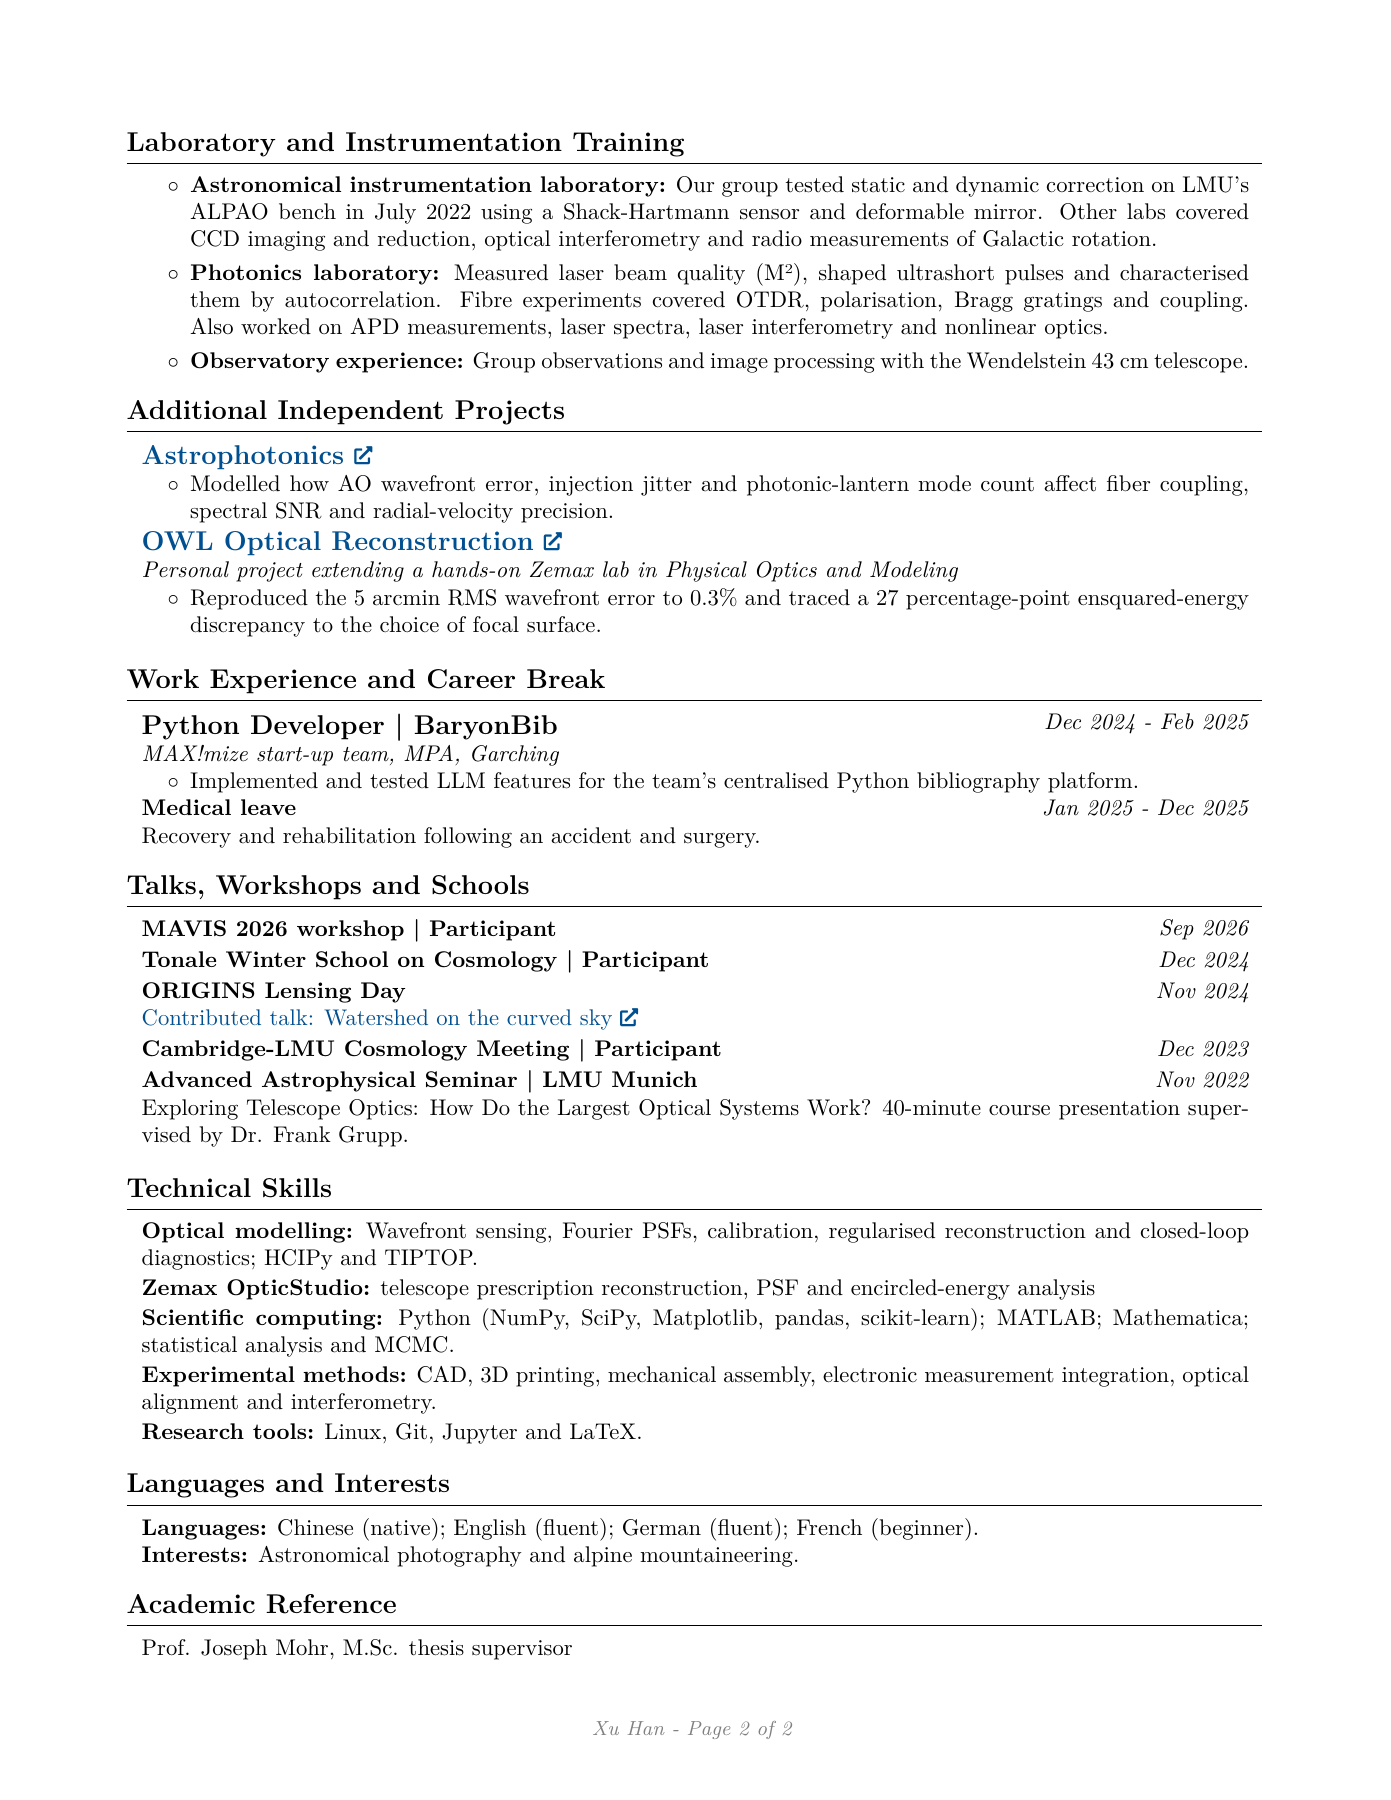
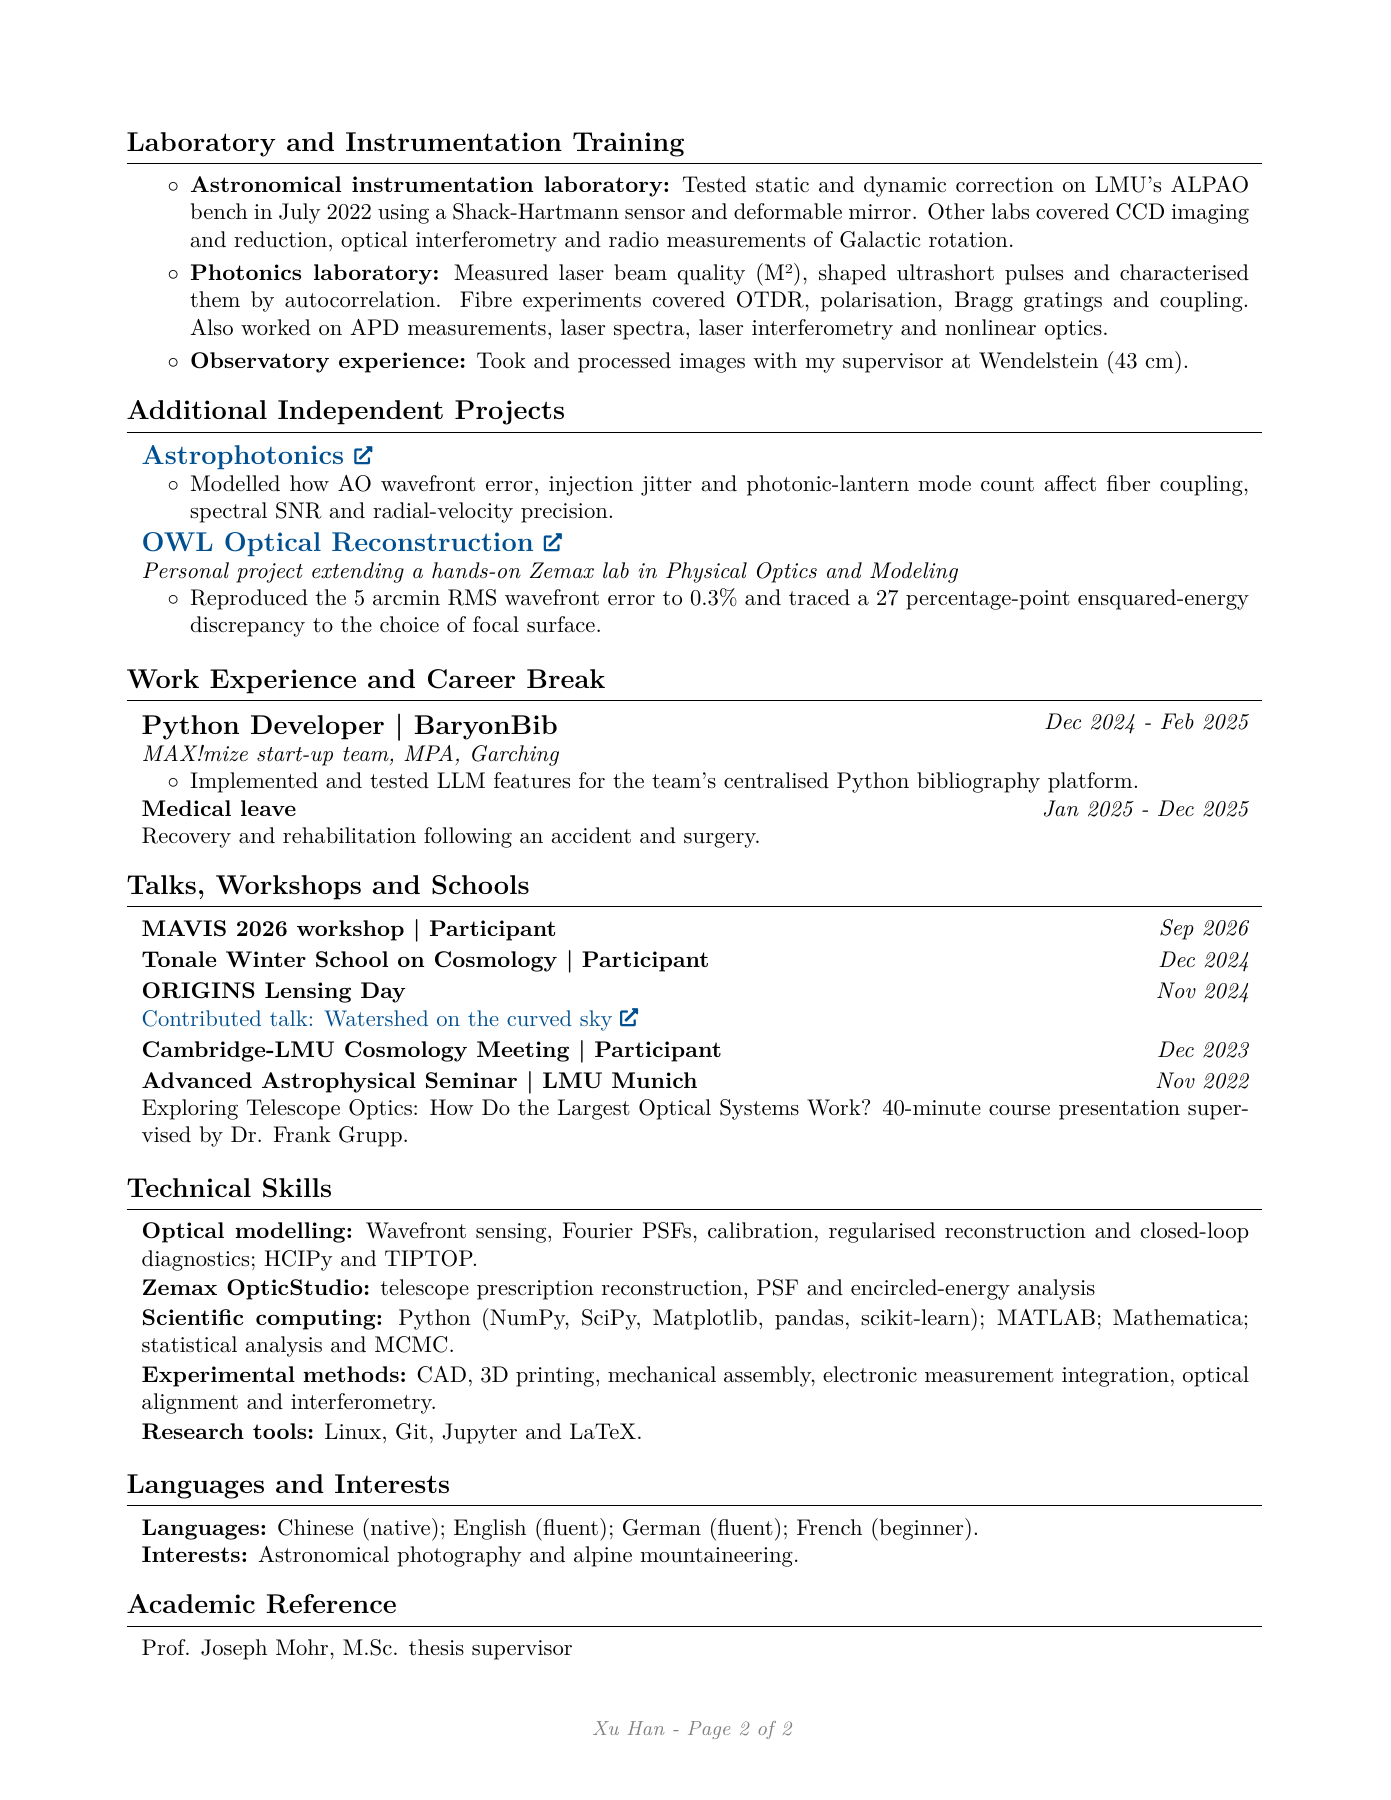
Order CV degrees and research projects by date and clarify observing experience

diff --git a/cv/Xu_Han_CV.tex b/cv/Xu_Han_CV.tex
@@ -180,13 +180,14 @@ Photonics M.Sc. student and LMU astrophysics graduate focused on astronomical in
 \textbf{Selected coursework:} Physical Optics and Modelling (\textbf{Zemax optical design}); Micro and Fiber Optics; Optical Measurement Technology; Semiconductor Optics and Components.
 \end{onecolentry}
 \vspace{0.08 cm}
-\begin{twocolentry}{\textit{Sep 2013 - Jul 2017}}
-\textbf{B.Eng. Electrical Engineering and Automation}
-
-Hubei University of Technology
+\begin{twocolentry}{\textit{Apr 2022 - Aug 2024}}
+\textbf{M.Sc. Astrophysics} | LMU Munich
 \end{twocolentry}
 \begin{onecolentry}
-Electronics, control systems and embedded systems.
+Grade: 1.55 (German scale). \textbf{Selected coursework:} Essentials of Advanced Astrophysics; Cosmology and Structure Formation; Statistical Methods; Instrumental Laboratory Courses.
+\end{onecolentry}
+\begin{onecolentry}
+\hrefWithoutArrow{https://drive.google.com/file/d/1NQSRpt\_x9CCdSJrJznqkt5ncOElWJPhy/view?usp=drivesdk}{Degree certificate}
 \end{onecolentry}
 \vspace{0.08 cm}
 \begin{twocolentry}{\textit{Oct 2018 - Mar 2022}}
@@ -199,14 +200,13 @@ Grade: 1.8 (German scale).
 \hrefWithoutArrow{https://drive.google.com/file/d/1m3RH47N80jSDokQ6q0vlu0j9GsGqVNYK/view?usp=drivesdk}{Degree certificate}
 \end{onecolentry}
 \vspace{0.08 cm}
-\begin{twocolentry}{\textit{Apr 2022 - Aug 2024}}
-\textbf{M.Sc. Astrophysics} | LMU Munich
+\begin{twocolentry}{\textit{Sep 2013 - Jul 2017}}
+\textbf{B.Eng. Electrical Engineering and Automation}
+
+Hubei University of Technology
 \end{twocolentry}
 \begin{onecolentry}
-Grade: 1.55 (German scale). \textbf{Selected coursework:} Essentials of Advanced Astrophysics; Cosmology and Structure Formation; Statistical Methods; Instrumental Laboratory Courses.
-\end{onecolentry}
-\begin{onecolentry}
-\hrefWithoutArrow{https://drive.google.com/file/d/1NQSRpt\_x9CCdSJrJznqkt5ncOElWJPhy/view?usp=drivesdk}{Degree certificate}
+Electronics, control systems and embedded systems.
 \end{onecolentry}
 \vspace{0.08 cm}
 \section{Selected Research and Engineering Projects}
@@ -228,21 +228,6 @@ Grade: 1.55 (German scale). \textbf{Selected coursework:} Essentials of Advanced
 \end{highlights}
 \end{onecolentry}
 \vspace{0.08 cm}
-\begin{twocolentry}{\textit{Mar 2021 - Aug 2021}}
-{\large\textbf{\href{https://xhvoid.github.io/Xu-Han.github.io/projects/\#experimental-apparatus}{Experimental Collisional Charging Apparatus}}}
-
-\textit{Bachelor's thesis | University of Duisburg-Essen}
-\end{twocolentry}
-\begin{onecolentry}
-Supervisors: Prof. Gerhard Wurm and Dr. Felix Jungmann.
-\end{onecolentry}
-\begin{onecolentry}
-\begin{highlights}
-\item Designed the mechanical apparatus in CAD, fabricated components by 3D printing and assembled the setup; integrated and debugged electronic charge-measurement modules.
-\item Conducted measurements and analysed grain-size dependence of collisional charging, testing a dust-collision growth hypothesis relevant to early planet formation.
-\end{highlights}
-\end{onecolentry}
-\vspace{0.08 cm}
 \begin{twocolentry}{\textit{Mar 2023 - Aug 2024}}
 {\large\textbf{\href{https://xhvoid.github.io/Xu-Han.github.io/files/watershed-voids-thesis.pdf}{Weak Lensing Void Finder}}}
 
@@ -258,13 +243,28 @@ Supervisors: Prof. Joseph Mohr and Dr. Chris Davies.
 \end{highlights}
 \end{onecolentry}
 \vspace{0.08 cm}
+\begin{twocolentry}{\textit{Mar 2021 - Aug 2021}}
+{\large\textbf{\href{https://xhvoid.github.io/Xu-Han.github.io/projects/\#experimental-apparatus}{Experimental Collisional Charging Apparatus}}}
+
+\textit{Bachelor's thesis | University of Duisburg-Essen}
+\end{twocolentry}
+\begin{onecolentry}
+Supervisors: Prof. Gerhard Wurm and Dr. Felix Jungmann.
+\end{onecolentry}
+\begin{onecolentry}
+\begin{highlights}
+\item Designed the mechanical apparatus in CAD, fabricated components by 3D printing and assembled the setup; integrated and debugged electronic charge-measurement modules.
+\item Conducted measurements and analysed grain-size dependence of collisional charging, testing a dust-collision growth hypothesis relevant to early planet formation.
+\end{highlights}
+\end{onecolentry}
+\vspace{0.08 cm}
 \clearpage
 \section{Laboratory and Instrumentation Training}
 \begin{onecolentry}
 \begin{highlights}
-\item \textbf{Astronomical instrumentation laboratory:} Our group tested static and dynamic correction on LMU's ALPAO bench in July 2022 using a Shack-Hartmann sensor and deformable mirror. Other labs covered CCD imaging and reduction, optical interferometry and radio measurements of Galactic rotation.
+\item \textbf{Astronomical instrumentation laboratory:} Tested static and dynamic correction on LMU's ALPAO bench in July 2022 using a Shack-Hartmann sensor and deformable mirror. Other labs covered CCD imaging and reduction, optical interferometry and radio measurements of Galactic rotation.
 \item \textbf{Photonics laboratory:} Measured laser beam quality (M²), shaped ultrashort pulses and characterised them by autocorrelation. Fibre experiments covered OTDR, polarisation, Bragg gratings and coupling. Also worked on APD measurements, laser spectra, laser interferometry and nonlinear optics.
-\item \textbf{Observatory experience:} Group observations and image processing with the Wendelstein 43 cm telescope.
+\item \textbf{Observatory experience:} Took and processed images with my supervisor at Wendelstein (43 cm).
 \end{highlights}
 \end{onecolentry}
 \section{Additional Independent Projects}

diff --git a/cv/Xu_Han_CV.md b/cv/Xu_Han_CV.md
@@ -12,11 +12,13 @@ Mar 2026 - Present
 
 Selected coursework: Physical Optics and Modelling (Zemax optical design); Micro and Fiber Optics; Optical Measurement Technology; Semiconductor Optics and Components.
 
-### B.Eng. Electrical Engineering and Automation | Hubei University of Technology
+### M.Sc. Astrophysics | LMU Munich
 
-Sep 2013 - Jul 2017
+Apr 2022 - Aug 2024
 
-Electronics, control systems and embedded systems.
+Grade: 1.55 (German scale). Selected coursework: Essentials of Advanced Astrophysics; Cosmology and Structure Formation; Statistical Methods; Instrumental Laboratory Courses.
+
+[Degree certificate](https://drive.google.com/file/d/1NQSRpt_x9CCdSJrJznqkt5ncOElWJPhy/view?usp=drivesdk)
 
 ### B.Sc. Physics | University of Duisburg-Essen
 
@@ -26,13 +28,11 @@ Grade: 1.8 (German scale).
 
 [Degree certificate](https://drive.google.com/file/d/1m3RH47N80jSDokQ6q0vlu0j9GsGqVNYK/view?usp=drivesdk)
 
-### M.Sc. Astrophysics | LMU Munich
+### B.Eng. Electrical Engineering and Automation | Hubei University of Technology
 
-Apr 2022 - Aug 2024
+Sep 2013 - Jul 2017
 
-Grade: 1.55 (German scale). Selected coursework: Essentials of Advanced Astrophysics; Cosmology and Structure Formation; Statistical Methods; Instrumental Laboratory Courses.
-
-[Degree certificate](https://drive.google.com/file/d/1NQSRpt_x9CCdSJrJznqkt5ncOElWJPhy/view?usp=drivesdk)
+Electronics, control systems and embedded systems.
 
 ## Selected Research and Engineering Projects
 
@@ -47,15 +47,6 @@ Independent project (ongoing development) | Mar 2026 - Present
 - Diagnosed a reconstruction failure associated with measurement dropout in a 2.2 m NGS model; stronger TSVD regularisation kept reconstruction usable throughout the matched two-second run.
 - Cross-checked selected optical components against HCIPy and analytic references; documented reproducible experiments, model limitations and an interactive explorer of recorded results.
 
-### [Experimental Collisional Charging Apparatus](https://xhvoid.github.io/Xu-Han.github.io/projects/#experimental-apparatus)
-
-Bachelor's thesis | University of Duisburg-Essen | Mar 2021 - Aug 2021
-
-Supervisors: Prof. Gerhard Wurm and Dr. Felix Jungmann.
-
-- Designed the mechanical apparatus in CAD, fabricated components by 3D printing and assembled the setup; integrated and debugged electronic charge-measurement modules.
-- Conducted measurements and analysed grain-size dependence of collisional charging, testing a dust-collision growth hypothesis relevant to early planet formation.
-
 ### [Weak Lensing Void Finder](https://xhvoid.github.io/Xu-Han.github.io/files/watershed-voids-thesis.pdf)
 
 Master's thesis | LMU Munich | Mar 2023 - Aug 2024
@@ -65,11 +56,20 @@ Supervisors: Prof. Joseph Mohr and Dr. Chris Davies.
 - Developed and parameter-tested a watershed finder for cosmic voids in 2D full-sky weak-lensing convergence maps.
 - Applied the analysis to DES Y3 weak-lensing maps; characterised void abundance, effective radii, ellipticities and convergence profiles.
 
+### [Experimental Collisional Charging Apparatus](https://xhvoid.github.io/Xu-Han.github.io/projects/#experimental-apparatus)
+
+Bachelor's thesis | University of Duisburg-Essen | Mar 2021 - Aug 2021
+
+Supervisors: Prof. Gerhard Wurm and Dr. Felix Jungmann.
+
+- Designed the mechanical apparatus in CAD, fabricated components by 3D printing and assembled the setup; integrated and debugged electronic charge-measurement modules.
+- Conducted measurements and analysed grain-size dependence of collisional charging, testing a dust-collision growth hypothesis relevant to early planet formation.
+
 ## Laboratory and Instrumentation Training
 
-- **Astronomical instrumentation laboratory:** Our group tested static and dynamic correction on LMU's ALPAO bench in July 2022 using a Shack-Hartmann sensor and deformable mirror. Other labs covered CCD imaging and reduction, optical interferometry and radio measurements of Galactic rotation.
+- **Astronomical instrumentation laboratory:** Tested static and dynamic correction on LMU's ALPAO bench in July 2022 using a Shack-Hartmann sensor and deformable mirror. Other labs covered CCD imaging and reduction, optical interferometry and radio measurements of Galactic rotation.
 - **Photonics laboratory:** Measured laser beam quality (M²), shaped ultrashort pulses and characterised them by autocorrelation. Fibre experiments covered OTDR, polarisation, Bragg gratings and coupling. Also worked on APD measurements, laser spectra, laser interferometry and nonlinear optics.
-- **Observatory experience:** Group observations and image processing with the Wendelstein 43 cm telescope.
+- **Observatory experience:** Took and processed images with my supervisor at Wendelstein (43 cm).
 
 ## Additional Independent Projects
 

diff --git a/_pages/cv.md b/_pages/cv.md
@@ -7,8 +7,8 @@ author_profile: true
 
 My CV brings together **adaptive optics, experimental apparatus development and weak-lensing research**, supported by photonics studies, laboratory training and further optical simulation projects.
 
-<a class="btn btn--primary" href="{{ '/files/Xu_Han_CV.pdf?v=f42fe2ea8d8b' | relative_url }}" target="_blank" rel="noopener">View CV (PDF)</a>
-<a class="btn" href="{{ '/files/Xu_Han_CV.pdf?v=f42fe2ea8d8b' | relative_url }}" download="Xu_Han_CV.pdf">Download CV</a>
+<a class="btn btn--primary" href="{{ '/files/Xu_Han_CV.pdf?v=dc3860dd5562' | relative_url }}" target="_blank" rel="noopener">View CV (PDF)</a>
+<a class="btn" href="{{ '/files/Xu_Han_CV.pdf?v=dc3860dd5562' | relative_url }}" download="Xu_Han_CV.pdf">Download CV</a>
 
 *Updated 8 November 2026.*
 
@@ -19,8 +19,8 @@ My CV brings together **adaptive optics, experimental apparatus development and 
 **B.Sc. Physics** — [Degree certificate](https://drive.google.com/file/d/1m3RH47N80jSDokQ6q0vlu0j9GsGqVNYK/view?usp=drivesdk)
 
 <div class="cv-preview" aria-label="Two-page CV preview">
-  <a href="{{ '/files/Xu_Han_CV.pdf?v=f42fe2ea8d8b' | relative_url }}" target="_blank" rel="noopener" aria-label="Open the complete CV as a PDF">
-    <img src="{{ '/images/cv/xu-han-cv-page-1.png?v=952ef4578fbb' | relative_url }}" alt="Xu Han's CV, page 1: education and the three core research and engineering projects" width="1391" height="1800" decoding="async" style="width:100%;height:auto;border:1px solid #dde2e8;margin:0 0 1.5rem;">
-    <img src="{{ '/images/cv/xu-han-cv-page-2.png?v=f01009a1d3c0' | relative_url }}" alt="Xu Han's CV, page 2: laboratory training, additional projects, work, talks and technical skills" width="1391" height="1800" loading="lazy" decoding="async" style="width:100%;height:auto;border:1px solid #dde2e8;margin:0 0 1.5rem;">
+  <a href="{{ '/files/Xu_Han_CV.pdf?v=dc3860dd5562' | relative_url }}" target="_blank" rel="noopener" aria-label="Open the complete CV as a PDF">
+    <img src="{{ '/images/cv/xu-han-cv-page-1.png?v=84c0e408ee94' | relative_url }}" alt="Xu Han's CV, page 1: education and the three core research and engineering projects" width="1391" height="1800" decoding="async" style="width:100%;height:auto;border:1px solid #dde2e8;margin:0 0 1.5rem;">
+    <img src="{{ '/images/cv/xu-han-cv-page-2.png?v=2fb453f9cf28' | relative_url }}" alt="Xu Han's CV, page 2: laboratory training, additional projects, work, talks and technical skills" width="1391" height="1800" loading="lazy" decoding="async" style="width:100%;height:auto;border:1px solid #dde2e8;margin:0 0 1.5rem;">
   </a>
 </div>

diff --git a/_pages/projects.md b/_pages/projects.md
@@ -20,7 +20,7 @@ My projects range from telescope optics and adaptive optics simulations to an ex
 ### Laboratory Adaptive Optics — LMU Munich, 2022
 {: #lmu-ao-lab}
 
-In July 2022, our group worked with an ALPAO bench in the Instrumental Astrophysics Laboratory at LMU Munich. We applied individual Zernike modes with the deformable mirror and measured the wavefront with a Shack–Hartmann sensor. We studied static correction, then introduced an artificial turbulence screen to investigate dynamic correction. We followed the wavefront error and Strehl ratio and examined the point-spread function (PSF) on the science camera.
+In July 2022, I worked with an ALPAO bench in the Instrumental Astrophysics Laboratory at LMU Munich. We applied individual Zernike modes with the deformable mirror and measured the wavefront with a Shack–Hartmann sensor. We studied static correction, then introduced an artificial turbulence screen to investigate dynamic correction. We followed the wavefront error and Strehl ratio and examined the point-spread function (PSF) on the science camera.
 
 <p class="project-role">Laboratory supervisor · Dr. Frank Grupp, USM / LMU Munich</p>
 

diff --git a/_pages/experience.md b/_pages/experience.md
@@ -65,7 +65,7 @@ Completed experiments included:
 - **Adaptive optics:** [Wavefront measurements and correction on the ALPAO bench]({{ '/projects/#lmu-ao-lab' | relative_url }}) with a deformable mirror and a Shack–Hartmann sensor.
 - **Radio astronomy:** Measurements of Galactic rotation.
 
-At **Wendelstein Observatory**, I participated in observing and image processing using the **43 cm telescope**.
+My supervisor and I observed with the **43 cm telescope** at **Wendelstein Observatory** and processed the images.
 
 [Astronomical photography gallery]({{ '/hobbies/astronomical-photography/' | relative_url }})
 
